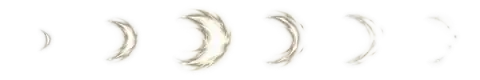
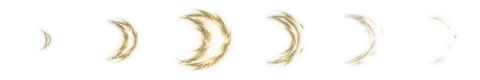
[디자인팀] 이펙트 에셋을 팀장 보정본(round8/final)으로 교체
Claude-Session: https://claude.ai/code/session_013M9CK1DXpnv28ZtJdsmhuH

diff --git a/teams/2-디자인/style-guide.md b/teams/2-디자인/style-guide.md
@@ -135,7 +135,7 @@
 | 바닥 충격파·돌가루 | 흰빛 + 회갈 `#B1A599` | |
 - **양 줄이기**: 맞음 파편 6→4개, 처치 파편 12→6개, 발광(shadowBlur) 반으로, 화면 흔들림은 큰 베기·폭탄급만 2px.
 - **타격감은 색 대신**: 히트 스톱 0.05초 · 외계인 넉백 8px · 외계인 흰 번쩍 0.08초 · 소리(`sound.md`)로 만들어요.
-- 8차 이펙트 그림(`gpt-art/round8`)은 보라·초록이 섞여 있어서 디자인팀이 **코드로 색을 바꿨어요**: 우리 공격 3종(slash·thrust·smash)은 금빛 색조·채도 22%, 외계인 2종(hit·death)은 보라 한 색·채도 75%. 내려찍기는 칸 가장자리 40px을 부드럽게 지웠어요(네모 연기 자국 제거). 결과: `gpt-art/round8/tinted/` → 게임용 `src/assets/fx/<slash|thrust|smash|hit|death>.webp`(칸 80×80, 6~8칸, 합계 54KB)
+- 8차 이펙트 그림(`gpt-art/round8`) 원본은 보라·초록이 섞여 있었어요. 팀장·디자인팀이 각각 코드로 색을 바꿔 비교했고 **팀장 보정본 `round8/final/`을 써요**(우리 공격 3종 옅은 금 한 계열, 외계인 2종 보라 한 색, 칸 가장자리 페이드 — 내려찍기 연기 경계가 더 깔끔). 디자인팀 보정본 `round8/tinted/`는 쓰지 않아요. 게임용: `src/assets/fx/<slash|thrust|smash|hit|death>.webp`(칸 80×80, 6~8칸)
 우리 공격은 **흰빛·금빛**(따뜻한 색), 외계인 공격은 **분홍**이에요. 맞으면 외계인이 0.1초 하얗게 번쩍이고, 4px 밀리고, 흰 별과 외계인 색 파편 6개가 튀어요.
 
 ### 치기 (가까이, 넓게) — 6가지

diff --git a/teams/2-디자인/작업기록.md b/teams/2-디자인/작업기록.md
@@ -72,3 +72,4 @@
 - 개발팀 알림(ZIP 1033KB) 대응: 장수 전신을 120px로, 시트 품질을 60으로 낮추고 국기 SVG 공백을 정리했어요 → 빌드 ZIP 998KB. 국기 30개는 렌더링해서 확인했어요
 - 사용자 결정(팀장 전달): 미국·핀란드 무기를 장난감 물총으로. style-guide 쏘기 규칙·나라 표·효과(물줄기·물보라)를 고쳤어요. 시안 공격 효과 칸에서 총탄·에너지 빔을 물줄기로 바꾸고, 석궁 대신 칼 던지기를 넣었어요. 카드·정면 그림(소총)을 다시 그릴지 사용자에게 물어봐요
 - 사용자 결정 2개(팀장 전달): ① 물총 취소 → 미국·핀란드 총은 코드 그림(round7 물총 그림 사용 안 함) ② 이펙트가 알록달록하다 → 우리 공격은 흰빛·은빛·옅은 금, 외계인 쪽은 보라 한 색으로 통일, 파편 수 줄임. 8차 이펙트 그림(보라·초록 섞임)은 코드로 색을 바꿔 통과시켰어요(round8/tinted). src/assets/fx/ 5종 54KB. 빌드 ZIP 1,054KB로 1MB를 넘어서 목표를 2MB로 올릴지 사용자에게 물어봐요
+- 8차 이펙트: 팀장 보정본(round8/final)이 내려찍기 가장자리까지 깔끔해서 그걸 쓰기로 했어요. src/assets/fx/를 final로 다시 만들었어요
